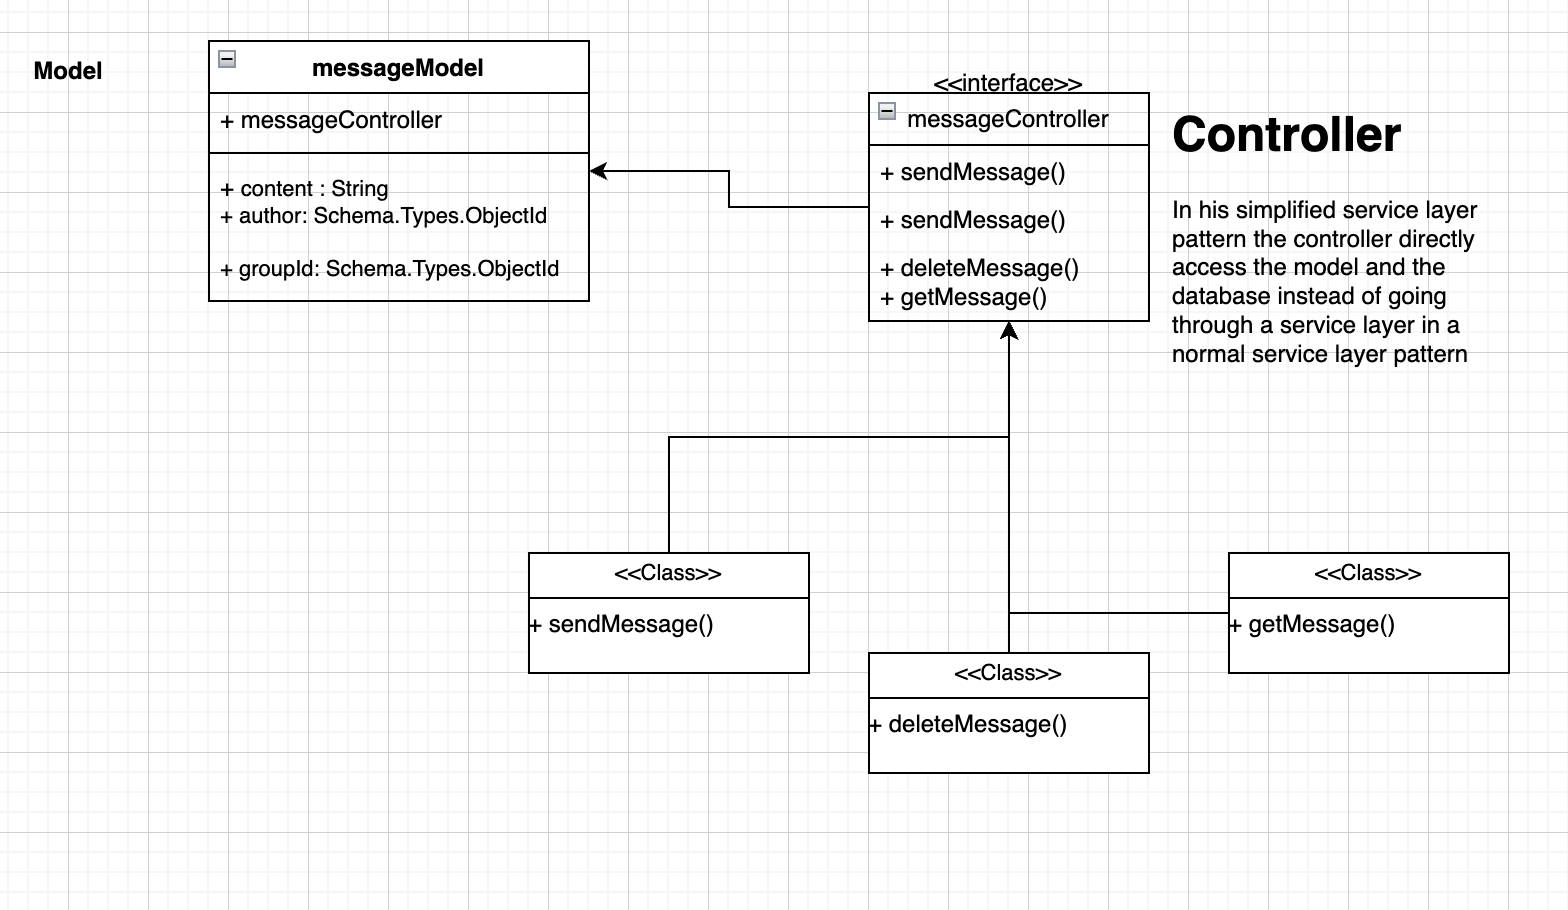
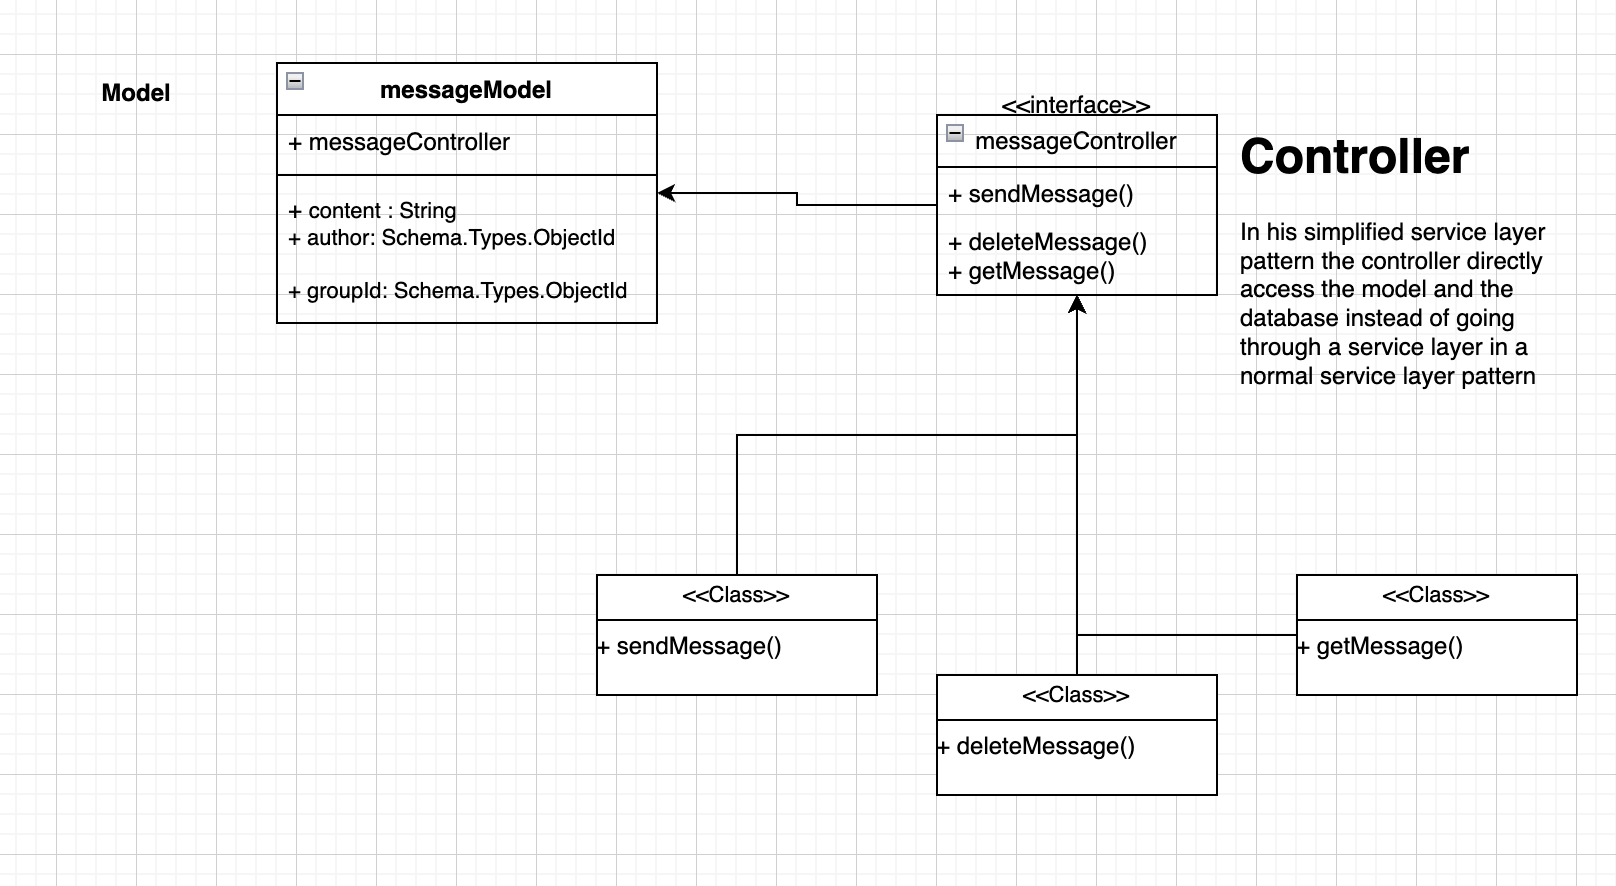
changes made based off of the comments.

diff --git a/Deliverables/Deliverable 5.md b/Deliverables/Deliverable 5.md
@@ -40,7 +40,7 @@ The MessageController in our controllers folder implements a simplified Service 
 messageController: https://github.com/jadynlaila/Study_Group_Platform/blob/dev_backend/backend/controllers/messageController.js
 
 **UML Diagram**
-(simplified Service Layer Pattern)[Deliverables\res\simplified-service-layer-pattern.png]
+![simplified Service Layer Pattern](Deliverables\res\simplified-service-layer-pattern.png)
 
 
 ## 6. Design Principles
